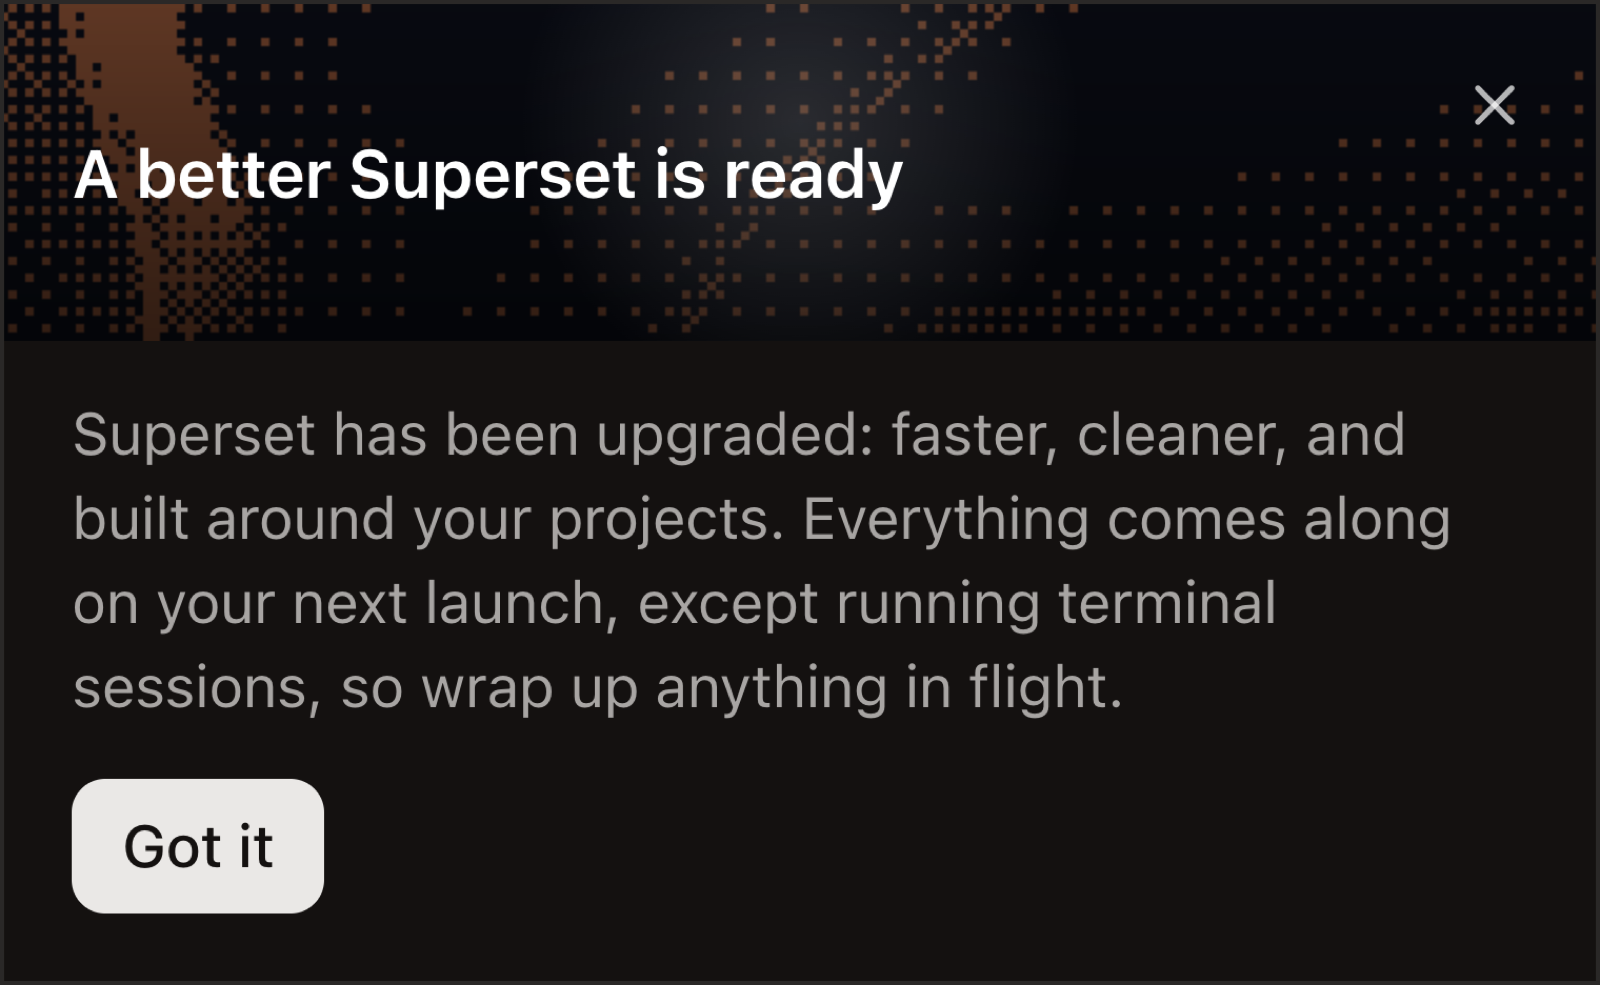
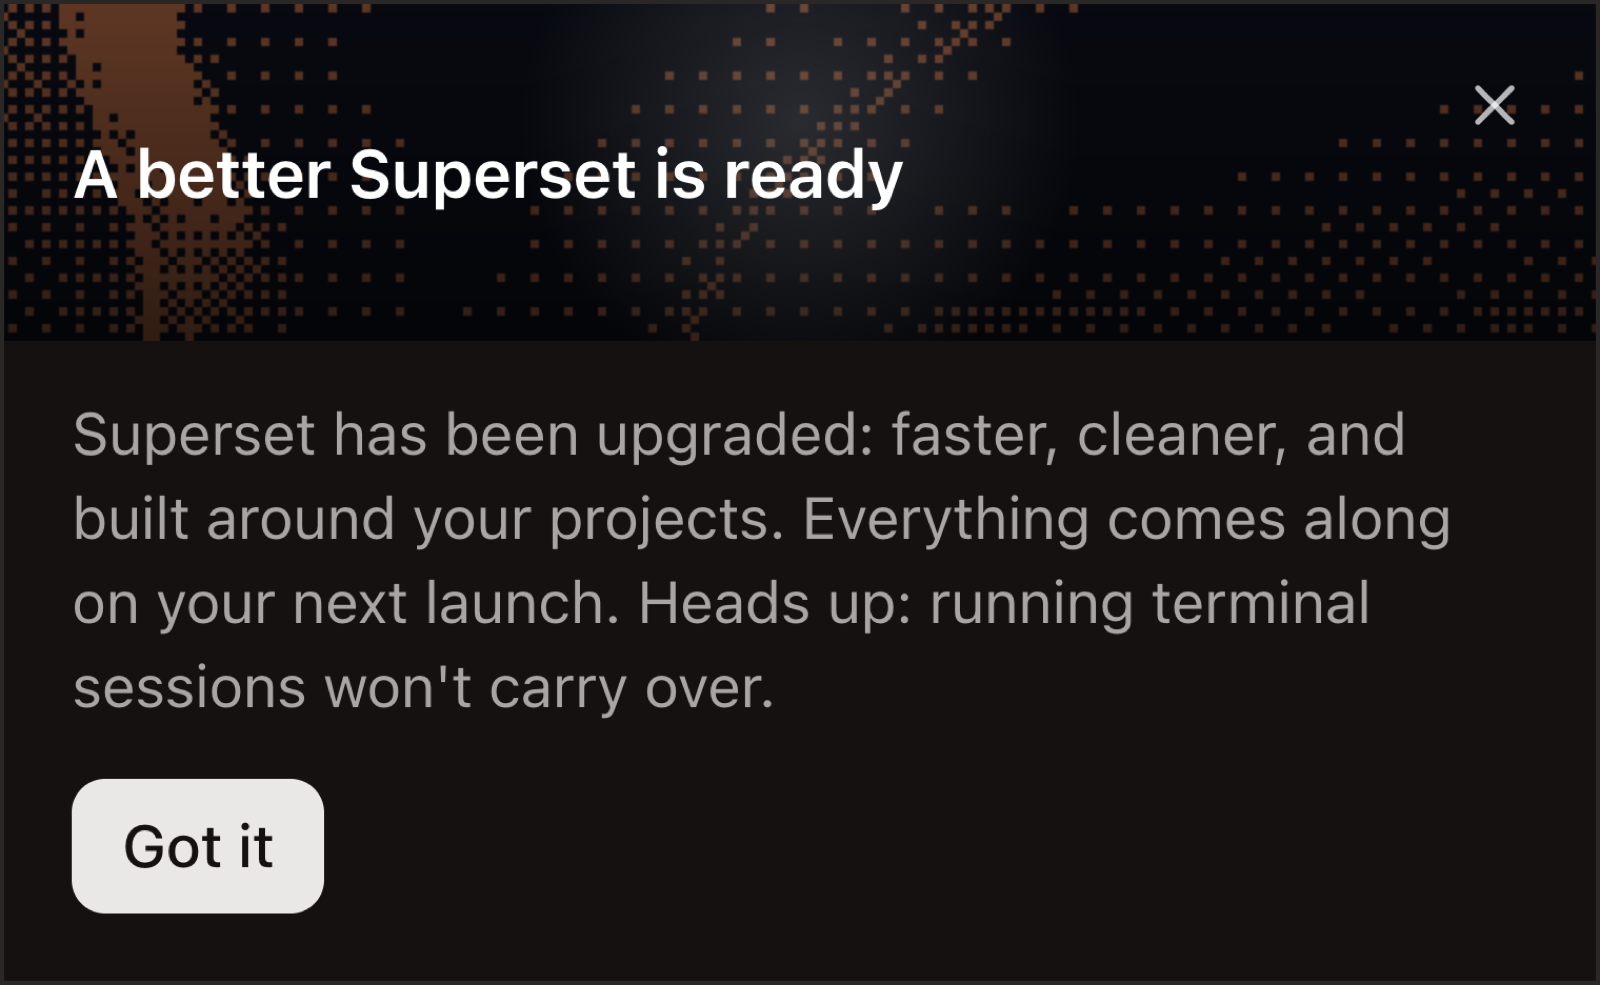
copy(desktop): pre-flip terminal note as a heads-up, not an instruction

Changed region(s): [[0.1875, 0.6701, 0.6875, 0.731], [0.375, 0.5787, 0.875, 0.6396]]

diff --git a/apps/desktop/src/renderer/routes/_authenticated/components/V1FlipNotice/V1FlipNotice.tsx b/apps/desktop/src/renderer/routes/_authenticated/components/V1FlipNotice/V1FlipNotice.tsx
@@ -52,7 +52,7 @@ export function V1FlipNotice() {
 	return (
 		<FlipNoticeCard
 			title="A better Superset is ready"
-			body="Superset has been upgraded: faster, cleaner, and built around your projects. Everything comes along on your next launch, except running terminal sessions, so wrap up anything in flight."
+			body="Superset has been upgraded: faster, cleaner, and built around your projects. Everything comes along on your next launch. Heads up: running terminal sessions won't carry over."
 			ctaLabel="Got it"
 			onDismiss={dismiss}
 		/>
